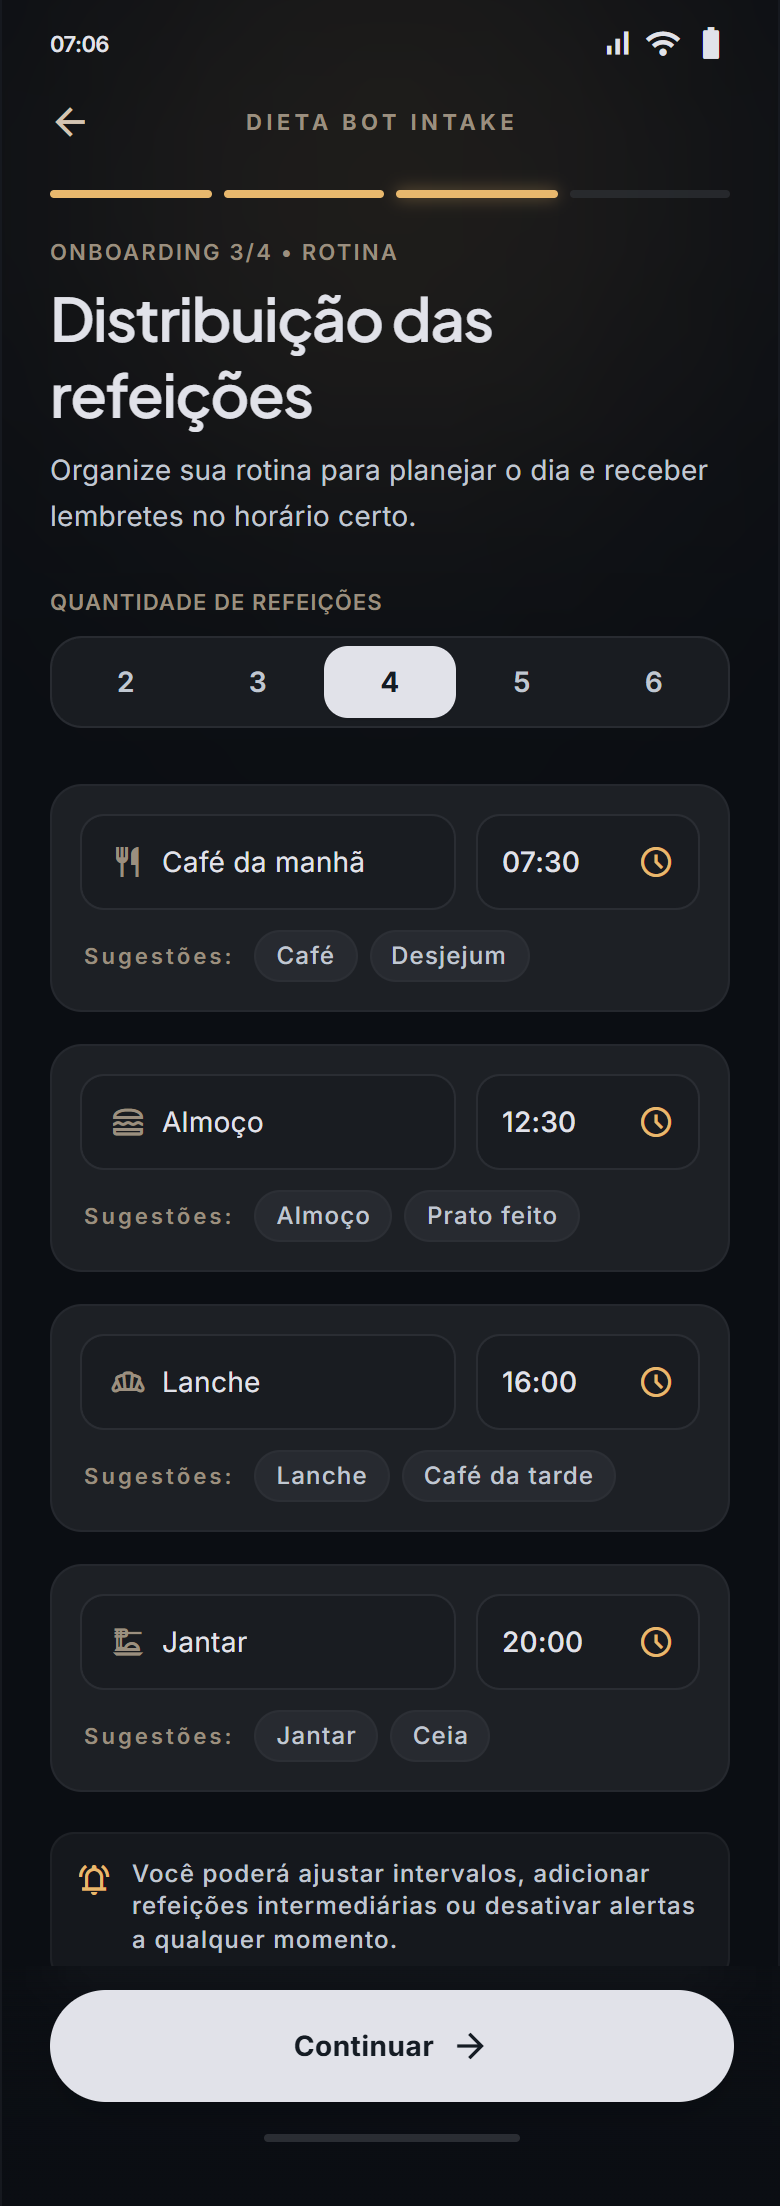
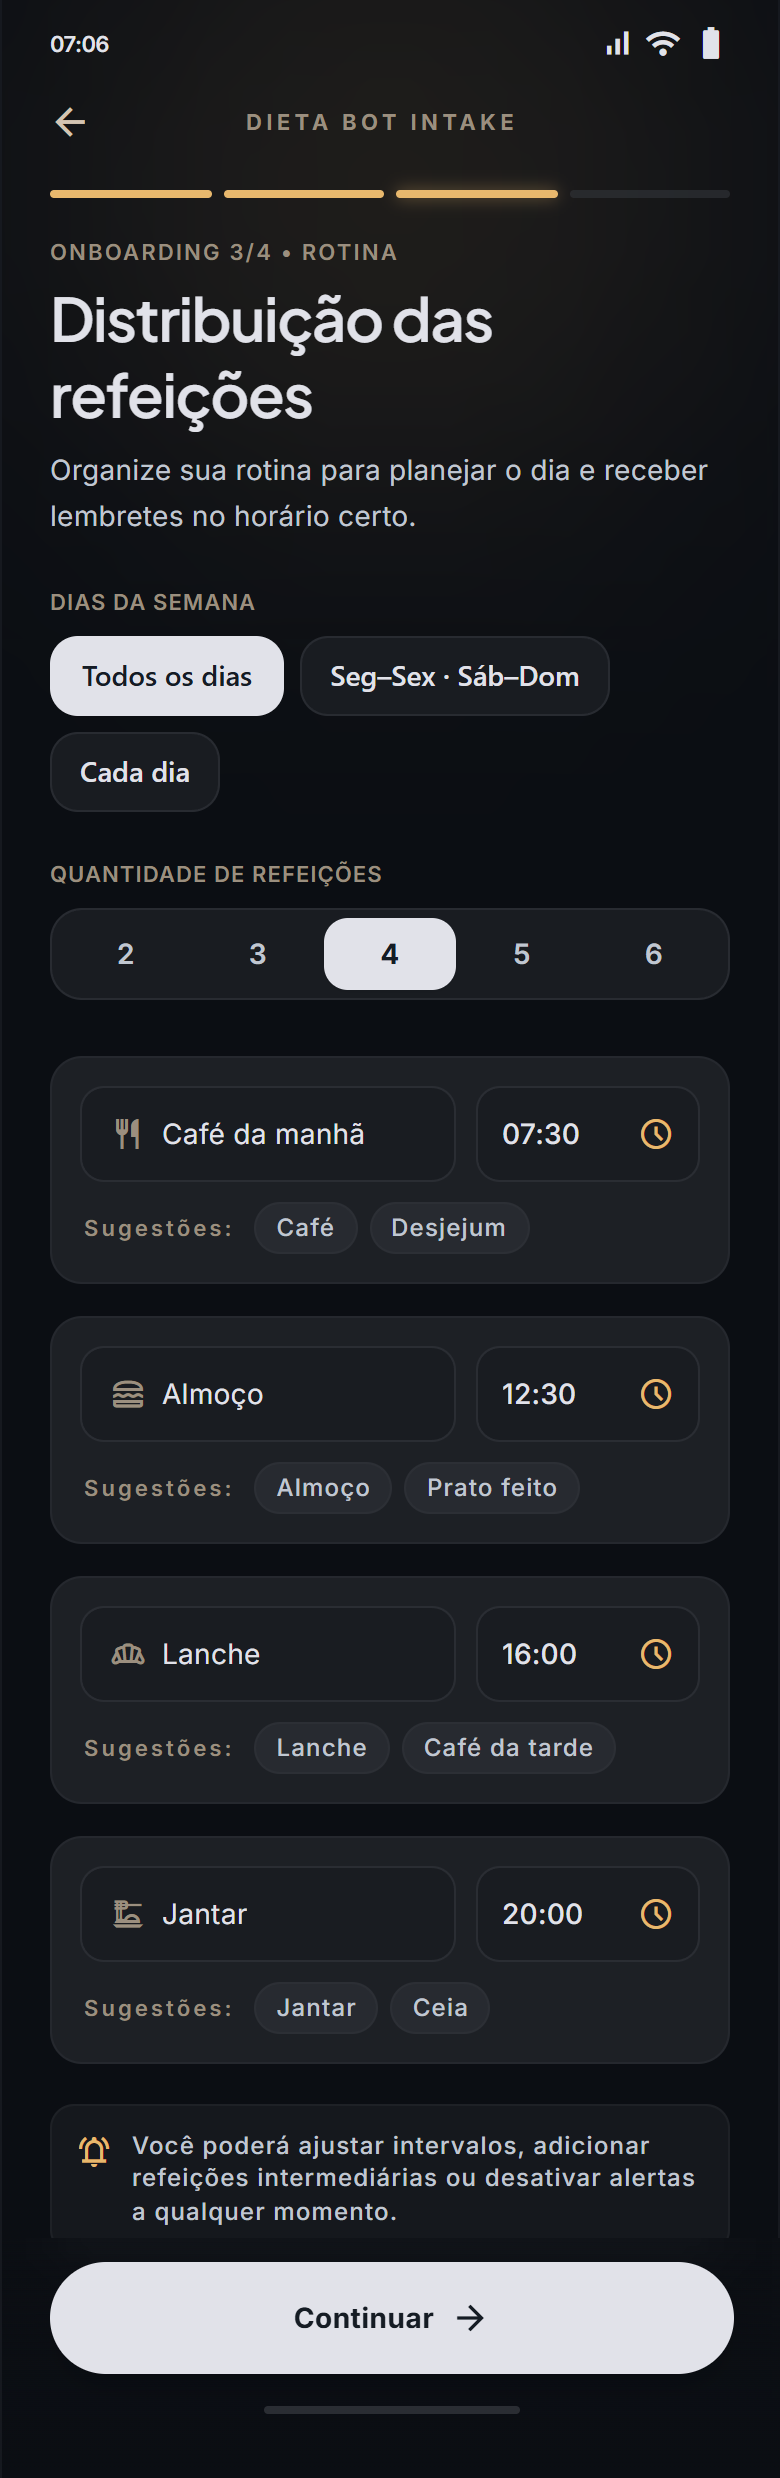
docs(stitch): conclui ST4 refeições por dia (o3s, cfgS)
Gold o3 re-exportado com "DIAS DA SEMANA"; o3s e cfgS novos em dark e
light (23 por tema). Verificação 1 achou o "3" selecionado do o3s light
em fundo escuro; o dono ajustou para o estilo do o3 e a verificação 2
passou.

diff --git a/docs/stitch/plans/completed/st4-refeicoes-por-dia.md b/docs/stitch/plans/completed/st4-refeicoes-por-dia.md
@@ -1,14 +1,14 @@
 # Gate Stitch — ST4 Refeições por dia da semana
 
-- Estado: Aguardando o dono no Stitch
+- Estado: Concluído
 - Data: 29/09/2026
 - Contexto proprietário: `stitch`
 - Projeto: Stitch `Nutri` (`6282733070135794645`)
-- Executa: [ADR-021](../../produto/adrs/ADR-021-refeicoes-por-dia.md)
-- Pré-requisito: [ST3](completed/st3-seletor-horario.md) `Concluído` (a tela da O3 precisa estar estável antes).
-- Bloqueia: [A24 Refeições por dia](../../android/plans/a24-refeicoes-por-dia.md)
+- Executa: [ADR-021](../../../produto/adrs/ADR-021-refeicoes-por-dia.md)
+- Pré-requisito: [ST3](st3-seletor-horario.md) `Concluído` (a tela da O3 precisa estar estável antes).
+- Bloqueia: [A24 Refeições por dia](../../../android/plans/a24-refeicoes-por-dia.md)
 
-Nomes das telas: títulos exatos do Stitch ([tabela](../README.md#nomes-das-telas-regra-do-dono-29092026)). Cada prompt tem um bloco para o tema escuro (`V2 Expressive`) e outro para o claro (`V2 Light`).
+Nomes das telas: títulos exatos do Stitch ([tabela](../../README.md#nomes-das-telas-regra-do-dono-29092026)). Cada prompt tem um bloco para o tema escuro (`V2 Expressive`) e outro para o claro (`V2 Light`).
 
 ## ⛔ Bloqueio do dono — prompts para o Stitch
 
@@ -125,11 +125,11 @@ Title sizes: every row title in this screen ("Meta de calorias", "Compensação 
 
 ### Checklist
 
-- [ ] "Distribuição das refeições": seção "DIAS DA SEMANA" com 3 chips, "Todos os dias" selecionado; o resto da tela sem mudança.
-- [ ] "Refeições Sáb e Dom": "Seg–Sex · Sáb–Dom" selecionado, cabeçalho "Sáb e Dom · Etapa 2 de 2", barra de 2 segmentos, botão "Copiar de Seg a Sex", 3 refeições.
-- [ ] "Configurações com refeições por dia": duas linhas "Seg a Sex" / "Sáb e Dom" com detalhe e o rótulo do modo ao lado do título da seção.
-- [ ] "Configurações com refeições por dia": todos os títulos de linha no tamanho de "Meta de calorias".
-- [ ] Tokens do `AGENTS.md`; dark e light coerentes.
+- [x] "Distribuição das refeições": seção "DIAS DA SEMANA" com 3 chips, "Todos os dias" selecionado; o resto da tela sem mudança.
+- [x] "Refeições Sáb e Dom": "Seg–Sex · Sáb–Dom" selecionado, cabeçalho "Sáb e Dom · Etapa 2 de 2", barra de 2 segmentos, botão "Copiar de Seg a Sex", 3 refeições.
+- [x] "Configurações com refeições por dia": duas linhas "Seg a Sex" / "Sáb e Dom" com detalhe e o rótulo do modo ao lado do título da seção.
+- [x] "Configurações com refeições por dia": todos os títulos de linha no tamanho de "Meta de calorias".
+- [x] Tokens do `AGENTS.md`; dark e light coerentes.
 
 Checklist verde: lista de golds com `o3s` e `cfgS`, `docs/stitch/README.md` com os títulos na tabela principal, estado `Concluído`, mover para `completed/`, índices e entrega git (`docs/st4-stitch-refeicoes-por-dia`).
 
@@ -143,3 +143,5 @@ Checklist verde: lista de golds com `o3s` e `cfgS`, `docs/stitch/README.md` com 
 
 - 29/09/2026 — Gate criado. Aguardando o dono.
 - 29/09/2026 — Prompts reescritos com os títulos reais do Stitch (pedido do dono).
+- 29/09/2026 — Verificação 1: `verify-stitch` **passou**, mas o checklist falhou no light: em "Onboarding 3/4 - Refeições Sáb e Dom (V2 Light)" o "3" selecionado da contagem veio com fundo `#111111` e texto branco, enquanto na "Distribuição das refeições (V2 Light)" o selecionado é branco com texto `#14161a`. Causa parcial: o prompt 4.1 light dizia que o "4" selecionado tinha fundo escuro. Prompt de ajuste enviado ao dono.
+- 29/09/2026 — Verificação 2: **passou**. O ajuste mudou só o "3" (diff do HTML). IDs novos: "Onboarding 3/4 - Refeições Sáb e Dom (V2 Expressive)" `e315333953d848ba926bc1674adf6c7f`, "(V2 Light)" `97623fec43ad4f7892c6790de8d73a97`; "Configurações com refeições por dia (V2 Expressive)" `8a05d4beabc04253a45e7b09e0975085`, "(V2 Light)" `2cca2addc43b47a195cee2e2bfc3901a`. As O3 e as Config mantêm IDs e títulos. `o3` re-exportado (780x2478, com "DIAS DA SEMANA"); `o3s` e `cfgS` entraram nos scripts (46 golds, 23 por tema). No light, chip de modo selecionado tem fundo escuro e segmento de contagem selecionado tem fundo branco; é o estado dos golds. Nota: "Onboarding 3/4 - Seletor de horário" (`o3t`) foi copiada da O3 antes dos chips; a O3 atrás do diálogo, borrada pelo scrim, não tem "DIAS DA SEMANA". Não bloqueia.

diff --git a/docs/stitch/README.md b/docs/stitch/README.md
@@ -44,6 +44,7 @@ No Stitch, as telas têm título ("Chat vazio (V2 Expressive)"), não o id de go
 | `o2` | Onboarding 2/4 - Compensação de treinos (V2 Expressive) | Onboarding 2/4 - Compensação de treinos (V2 Light) |
 | `o3` | Onboarding 3/4 - Distribuição das refeições (V2 Expressive) | Onboarding 3/4 - Distribuição das refeições (V2 Light) |
 | `o3t` | Onboarding 3/4 - Seletor de horário (V2 Expressive) | Onboarding 3/4 - Seletor de horário (V2 Light) |
+| `o3s` | Onboarding 3/4 - Refeições Sáb e Dom (V2 Expressive) | Onboarding 3/4 - Refeições Sáb e Dom (V2 Light) |
 | `o4` | Onboarding 4/4 - Alvos de macronutrientes (V2 Expressive) | Onboarding 4/4 - Alvos de macronutrientes (V2 Light) |
 | `home0` | Home vazia - Day 1 (V2 Expressive Timeline) | Home vazia - Day 1 (V2 Light Timeline) |
 | `home1` | Home no dia - 1300 kcal (V2 Expressive Timeline) | Home no dia - 1300 kcal (V2 Light Timeline) |
@@ -58,6 +59,7 @@ No Stitch, as telas têm título ("Chat vazio (V2 Expressive)"), não o id de go
 | `chatG` | Confirmação pós-gravação com recibo duplo-check (V2 Expressive) | Confirmação pós-gravação com recibo duplo-check (V2 Light) |
 | `chatA` | Chat com foto anexada (V2 Expressive) | Chat com foto anexada (V2 Light) |
 | `cfg` | Configurações do perfil e dia (V2 Expressive) | Configurações do perfil e dia (V2 Light) |
+| `cfgS` | Configurações com refeições por dia (V2 Expressive) | Configurações com refeições por dia (V2 Light) |
 | `wipe` | Reiniciar registros de hoje - Diálogo Wipe (V2 Expressive) | Reiniciar registros de hoje - Diálogo Wipe (V2 Light) |
 | `push` | Notificação do sistema - Lembrete de refeição (V2 Expressive) | Notificação do sistema - Lembrete de refeição (V2 Light) |
 
@@ -65,8 +67,6 @@ Telas novas previstas pelos gates (título que o dono dá à cópia):
 
 | Gold | Dark (Stitch) | Light (Stitch) | Gate |
 |---|---|---|---|
-| `o3s` | Onboarding 3/4 - Refeições Sáb e Dom (V2 Expressive) | Onboarding 3/4 - Refeições Sáb e Dom (V2 Light) | ST4 |
-| `cfgS` | Configurações com refeições por dia (V2 Expressive) | Configurações com refeições por dia (V2 Light) | ST4 |
 | `chatX` | Chat com texto longo demais (V2 Expressive) | Chat com texto longo demais (V2 Light) | ST5 |
 
 Títulos lidos pelo MCP do Stitch (`list_screens`) em 29/09/2026.
@@ -116,7 +116,7 @@ ST1 e ST2 concluídos (29/09/2026). Três gates esperando o dono, cada um já co
 1. ✅ [ST1 Chat: bolhas, pergunta separada, anexo (`chatA`)](plans/completed/st1-chat.md) — concluído; libera [A19](../android/plans/a19-chat-visual.md).
 2. ✅ [ST2 Home: atalho de treino (`homeW`)](plans/completed/st2-home-treino.md) — concluído; libera [A22](../android/plans/a22-treino-home.md).
 3. ✅ [ST3 Seletor de horário em rodas (`o3t`)](plans/completed/st3-seletor-horario.md) — concluído; libera [A21](../android/plans/a21-seletor-horario.md).
-4. [ST4 Refeições por dia da semana](plans/st4-refeicoes-por-dia.md) — bloqueia [A24](../android/plans/a24-refeicoes-por-dia.md). Rodar depois do ST3 (usa o `o3` já com o seletor novo).
+4. ✅ [ST4 Refeições por dia da semana (`o3s`, `cfgS`)](plans/completed/st4-refeicoes-por-dia.md) — concluído; libera [A24](../android/plans/a24-refeicoes-por-dia.md).
 5. [ST5 Chat: texto longo demais no composer (`chatX`)](plans/st5-chat-texto-longo.md) — bloqueia [A25](../android/plans/a25-limite-texto-composer.md). Independe do ST1.
 6. ✅ [SV1 Verificação automática dos gates](plans/completed/sv1-verificacao-automatica.md) — concluído; `tools/verify-stitch.mjs`, usado na verificação do ST3–ST5.
 

diff --git a/docs/produto/specifications/perfil-onboarding.md b/docs/produto/specifications/perfil-onboarding.md
@@ -4,7 +4,7 @@
 
 Vigente desde o [A2](../../android/plans/completed/a2-onboarding-perfil.md): splash + O1-O4 conforme Stitch gold, perfil completo em Room v2.
 
-Mudanças planejadas (29/09/2026, aguardando aprovação): horário em diálogo com rodas ([A21](../../android/plans/a21-seletor-horario.md), gate [ST3](../../stitch/plans/completed/st3-seletor-horario.md)); refeições por dia da semana na O3 em etapas ([ADR-021](../adrs/ADR-021-refeicoes-por-dia.md), [A24](../../android/plans/a24-refeicoes-por-dia.md), gate [ST4](../../stitch/plans/st4-refeicoes-por-dia.md)).
+Mudanças planejadas (29/09/2026, aguardando aprovação): horário em diálogo com rodas ([A21](../../android/plans/a21-seletor-horario.md), gate [ST3](../../stitch/plans/completed/st3-seletor-horario.md)); refeições por dia da semana na O3 em etapas ([ADR-021](../adrs/ADR-021-refeicoes-por-dia.md), [A24](../../android/plans/a24-refeicoes-por-dia.md), gate [ST4](../../stitch/plans/completed/st4-refeicoes-por-dia.md)).
 
 ## Contexto e objetivo
 

diff --git a/docs/README.md b/docs/README.md
@@ -54,7 +54,7 @@ Lote do feedback dos testers (29/09/2026). A ordem respeita as dependências; um
 3. ✅ [ST1](stitch/plans/completed/st1-chat.md) → [A19 chat visual](android/plans/a19-chat-visual.md) — depois do A18.
 4. ✅ [ST2](stitch/plans/completed/st2-home-treino.md) → [A22 treino na Home](android/plans/a22-treino-home.md) — depois do A20.
 5. ✅ [ST3](stitch/plans/completed/st3-seletor-horario.md) → [A21 seletor de horário](android/plans/a21-seletor-horario.md) — depois do A20.
-6. ⛔ [ST4](stitch/plans/st4-refeicoes-por-dia.md) → [A24 refeições por dia](android/plans/a24-refeicoes-por-dia.md) — por último.
+6. ✅ [ST4](stitch/plans/completed/st4-refeicoes-por-dia.md) → [A24 refeições por dia](android/plans/a24-refeicoes-por-dia.md) — por último.
 
 Limite de texto do Chat (29/09/2026, [ADR-022](produto/adrs/ADR-022-limite-texto-chat.md)). Independe do lote acima:
 

diff --git a/docs/android/plans/a24-refeicoes-por-dia.md b/docs/android/plans/a24-refeicoes-por-dia.md
@@ -4,7 +4,7 @@
 - Data: 29/09/2026
 - Contexto proprietário: `android`
 - Código afetado: `apps/android/` (`core/database` — Room v3 → v4, `domain`, `feature/onboarding`, `feature/config`, `feature/home`, `feature/chat/PromptBuilder.kt`, `core/push`)
-- Pré-requisitos: **[ST4](../../stitch/plans/st4-refeicoes-por-dia.md) em `stitch/plans/completed/`** (golds `o3`, `o3s`, `cfgS`). [A21](a21-seletor-horario.md) concluído (O3 com o seletor novo). Aceita o [ADR-021](../../produto/adrs/ADR-021-refeicoes-por-dia.md). **Último plano do lote.**
+- Pré-requisitos: **[ST4](../../stitch/plans/completed/st4-refeicoes-por-dia.md) em `stitch/plans/completed/`** (golds `o3`, `o3s`, `cfgS`). [A21](a21-seletor-horario.md) concluído (O3 com o seletor novo). Aceita o [ADR-021](../../produto/adrs/ADR-021-refeicoes-por-dia.md). **Último plano do lote.**
 
 ## Gate de autorização
 

diff --git a/docs/stitch/plans/completed/st3-seletor-horario.md b/docs/stitch/plans/completed/st3-seletor-horario.md
@@ -5,7 +5,7 @@
 - Contexto proprietário: `stitch`
 - Projeto: Stitch `Nutri` (`6282733070135794645`)
 - Executa: [ADR-020](../../../produto/adrs/ADR-020-estados-novos-chat-home-horario.md)
-- Bloqueia: [A21 Seletor de horário](../../../android/plans/a21-seletor-horario.md); é pré-requisito do [ST4](../st4-refeicoes-por-dia.md).
+- Bloqueia: [A21 Seletor de horário](../../../android/plans/a21-seletor-horario.md); é pré-requisito do [ST4](st4-refeicoes-por-dia.md).
 
 Nomes das telas: títulos exatos do Stitch ([tabela](../../README.md#nomes-das-telas-regra-do-dono-29092026)). Cada prompt tem um bloco para o tema escuro (`V2 Expressive`) e outro para o claro (`V2 Light`).
 

diff --git a/docs/qa/README.md b/docs/qa/README.md
@@ -14,13 +14,13 @@ Padrão oficial de Qualidade Visual e Validação do Dieta Bot.
 
 ---
 
-## Filenames (21 telas oficiais por tema)
+## Filenames (23 telas oficiais por tema)
 
 ```text
-splash.png · o1.png · o2.png · o3.png · o3t.png · o4.png
+splash.png · o1.png · o2.png · o3.png · o3t.png · o3s.png · o4.png
 home0.png · home1.png · homeX.png · homeW.png
 chat0.png · chatL.png · chatE.png · chatT.png · chatP.png · chatF.png · chatG.png · chatA.png
-cfg.png · wipe.png · push.png
+cfg.png · cfgS.png · wipe.png · push.png
 ```
 
 O nome base (`<id>.png`) é rigorosamente idêntico em `stitch/{dark,light}/` e `android/current/{dark,light}/`.

diff --git a/AGENTS.md b/AGENTS.md
@@ -94,11 +94,11 @@ Folder law:
 - Do not compare against `_legacy`
 - No PNG/JPG may sit in the `docs/qa/` root
 
-Gold filenames (21 per theme):
-splash.png · o1.png · o2.png · o3.png · o3t.png · o4.png
+Gold filenames (23 per theme):
+splash.png · o1.png · o2.png · o3.png · o3t.png · o3s.png · o4.png
 home0.png · home1.png · homeX.png · homeW.png
 chat0.png · chatL.png · chatE.png · chatT.png · chatP.png · chatF.png · chatG.png · chatA.png
-cfg.png · wipe.png · push.png
+cfg.png · cfgS.png · wipe.png · push.png
 
 Splash is a cold start, not a freeze. Do not treat a visible splash as a crash.
 

diff --git a/docs/stitch/plans/completed/sv1-verificacao-automatica.md b/docs/stitch/plans/completed/sv1-verificacao-automatica.md
@@ -4,7 +4,7 @@
 - Data: 29/09/2026
 - Contexto proprietário: `stitch`
 - Código afetado: `tools/` (scripts Node do Stitch), `docs/stitch/`
-- Pré-requisitos: Nenhum. Deve ficar pronto antes da verificação do [ST3](st3-seletor-horario.md), [ST4](../st4-refeicoes-por-dia.md) e [ST5](../st5-chat-texto-longo.md).
+- Pré-requisitos: Nenhum. Deve ficar pronto antes da verificação do [ST3](st3-seletor-horario.md), [ST4](st4-refeicoes-por-dia.md) e [ST5](../st5-chat-texto-longo.md).
 
 ## Gate de autorização
 
